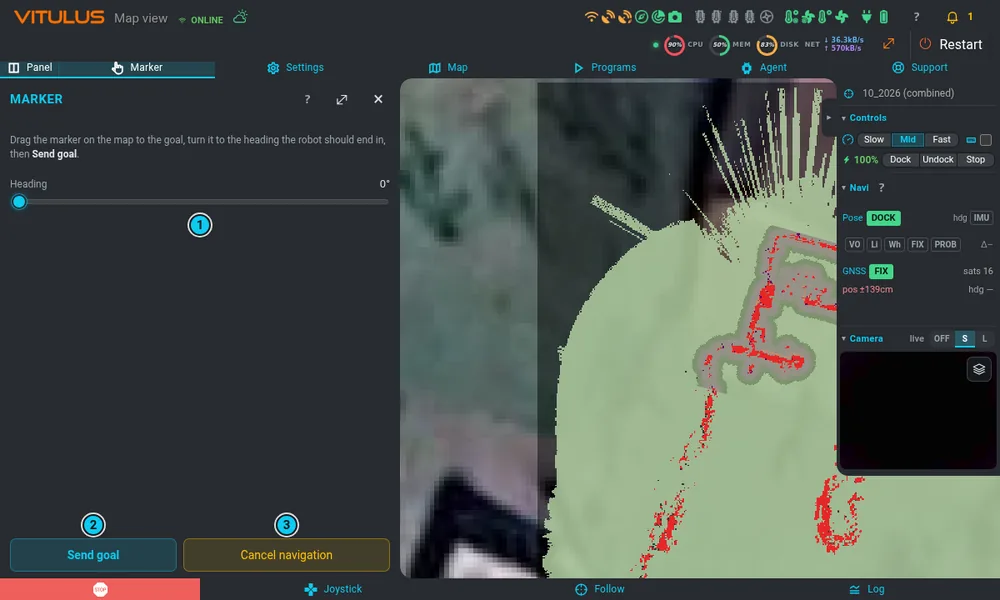
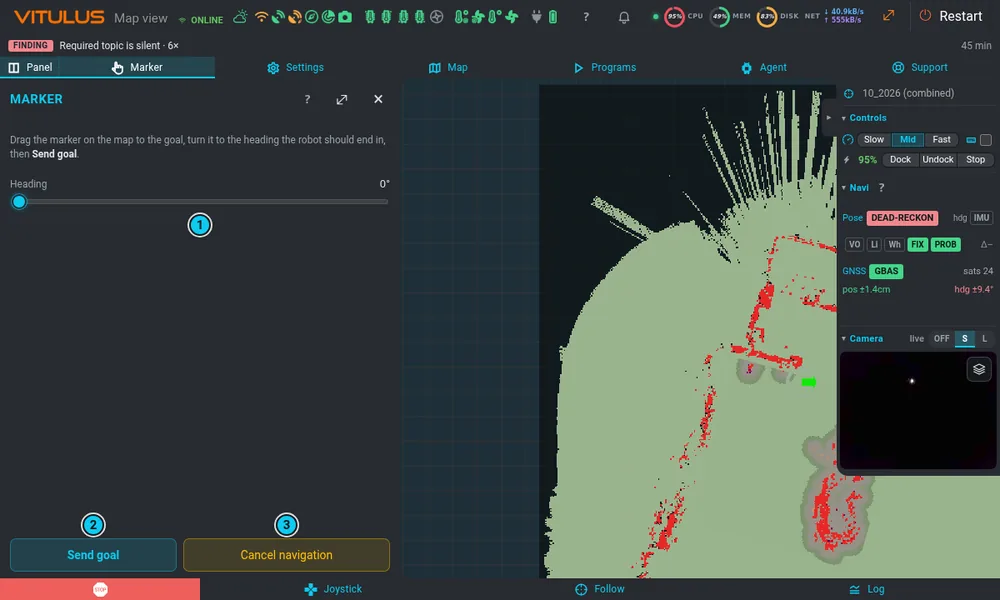
Nápověda: snímky bez skutečných zpráv – help_shots.py --demo (vymyšlený chat agenta a hlášení Support podstrčené jen v prohlížeči), letecký snímek vypnutý na všech snímcích; nafoceno znovu agent, support, phone, phone-sheet, help, marker

diff --git a/tools/help_shots.py b/tools/help_shots.py
@@ -8,6 +8,7 @@ them again from a running UI, so after a UI change it is one command:
     # a dev instance of THIS worktree, never the live robot UI (see README):
     nice -n 19 tools/help_shots.py --url http://127.0.0.1:7861
     nice -n 19 tools/help_shots.py --url http://127.0.0.1:7861 --only shot-dock-tab,shot-navi
+    nice -n 19 tools/help_shots.py --url http://127.0.0.1:7861 --demo   # the pictures for the help
     tools/help_shots.py --list
 
 Safety: every page is opened with ?mock (vt_mock.js: the page reads the robot
@@ -15,12 +16,21 @@ live but sends nothing) and the script stops when the page is not in mock mode.
 It only clicks menu buttons, tabs and section heads (list CLICK_OK); port 7779
 (the live UI) is refused.
 
+--demo: the panels that show conversations and reports (Agent chat, Support
+issues, Needs you, Activity) get invented, neutral content instead of the
+owner's real chat and reports. The browser answers those GET requests itself
+(Playwright route, DEMO below) — nothing is sent to any server. Shots marked
+demo=True are skipped without --demo, so the owner's messages never end up in
+the help by accident.
+
 Needs: python3-playwright + Google Chrome, Pillow with WebP. The pictures are
 the live robot's state at that moment (night = black camera) — shots whose
 content would mislead are schematic SVG instead (docs/help/img/*.svg).
 """
 import argparse
 import io
+import json
+import time
 import os
 import re
 import sys
@@ -48,8 +58,8 @@ CLICK_OK = re.compile(r'^(#btn_(marker|settings|map|programs|agent|support|log|j
 # the map view starts close on the dock; a little farther shows the garden.
 # The aerial photo layer is switched off in the pictures: it would show where
 # the owner lives (the help goes to every user of the kit).
-ZOOM_OUT = ("const v = viewer.viewer; v.camera.position.z *= 2.2; v.cameraControls.update();"
-            "const a = document.getElementById('mapv3_chk_aerial'); if (a && a.checked) a.click(); return '';")
+AERIAL_OFF = "const a = document.getElementById('mapv3_chk_aerial'); if (a && a.checked) a.click(); return '';"
+ZOOM_OUT = ("const v = viewer.viewer; v.camera.position.z *= 2.2; v.cameraControls.update();" + AERIAL_OFF)
 
 # the running card is painted by the page's own code from the mission's
 # state; the picture sets that state in the page only (nothing is sent)
@@ -174,15 +184,104 @@ SHOTS = [
          marks=[('#mapedit_tools', '1', 'ri'), ('#mapedit_tools + *, #mapedit_context', '2', 'tr'), ('#mapedit_context', '3', 'ri'),
                 ('#mapedit_edit_list, #div_map_detail details', '4', 'ri'), ('#btn_map_detail_close_footer', '5', 't'),
                 ('#map_view', '6', 'c')]),
-    dict(name='shot-agent', vp=DESK, clip='#ui_drawer_head|#ui_drawer_body', steps=panel('#btn_agent', None, [('wait', 2500)]),
+    dict(name='shot-agent', vp=DESK, demo=True, clip='#ui_drawer_head|#ui_drawer_body', steps=panel('#btn_agent', None, [('wait', 2500)]),
          marks=[('#vagent_status', '1', 'ri'), ('#vagent_stop', '2', 'b'),
                 ('#vagent_tabs', '3', 'b'), ('#vagent_panel textarea, #vagent_panel input[type=text]', '4', 't'), ('#vagent_quick', '5', 'ri')]),
-    dict(name='shot-support', vp=DESK, clip='#ui_drawer_head|#ui_drawer_body', trim=(2000, 300),
+    dict(name='shot-support', vp=DESK, demo=True, clip='#ui_drawer_head|#ui_drawer_body', trim=(2000, 300),
          steps=panel('#btn_support', None, [('wait', 2500)]), marks=[]),
     dict(name='shot-help', vp=DESK, scale=1, width=1200, md=26,
          steps=panel('#btn_map', 'tab-dock', [('click', '#btn_ui_drawer_help'), ('wait', 1500)]),
          marks=[('#btn_ui_drawer_help', '1', 'b'), ('.vth-search', '2', 'b'), ('.vth-toc', '3', 'l'), ('.vth-close', '4', 'b')]),
 ]
+
+
+# --- --demo: invented, neutral content for the panels that show the owner's
+# conversations and reports. The browser answers these GET requests itself
+# (Playwright route), the server never sees them; everything else is read live.
+def _demo_tasks(now):
+    T = []
+
+    def add(ago_s, source, author, klass, text, reply, took=4, meta=None):
+        ts = now - ago_s
+        T.append(dict(id=900 + len(T), ts=ts, source=source, author=author, text=text, klass=klass,
+                      state='done', reply=reply, reply_ts=ts + took, meta=meta))
+    add(1500, 'web', 'Owner', 'query', 'status?',
+        'Docked and charged (battery 100 %). RTK fix, accuracy 2 cm. Drive motors off, blade off.')
+    add(1380, 'web', 'Owner', 'mission', 'Test drive: undock, drive to TEST, wait 10 s, dock back',
+        'Taking it as mission #12. Plan, checked like a test scenario: 1) undock, 2) drive to TEST, '
+        '3) wait 10 s, 4) dock. I report after every phase; say "cancel" to stop it.')
+    add(1330, 'agent', 'agent', 'mission', 'mission #12 · phase 1/4',
+        'Phase 1/4 undock — done: motors on, out of the dock at UNDOCK, RTK fix.', took=1)
+    add(1270, 'agent', 'agent', 'mission', 'mission #12 · phase 2/4',
+        'Phase 2/4 drive to TEST — done in 48 s, 11.6 m, goal reached within 6 cm.', took=1)
+    add(1255, 'agent', 'agent', 'mission', 'mission #12 · phase 3/4',
+        'Phase 3/4 wait 10 s at TEST — done.', took=1)
+    add(1190, 'agent', 'agent', 'mission', 'mission #12 · phase 4/4',
+        'Phase 4/4 dock — done: docked, the charger supplies power. Mission #12 finished in 3 min 10 s.', took=1)
+    add(420, 'web', 'Owner', 'query', 'Is the path to the back lawn clear?',
+        'Yes. The lidar sees no new obstacle on the planned path; the nearest one is the bench, 1.4 m off the path.')
+    return T
+
+
+def _demo_issue(n, title, status, current, labels, who, ago_h, closed=False):
+    order = ['reported', 'assessed', 'fixed', 'released', 'tested', 'verified', 'closed']
+    stamp = time.strftime('%Y-%m-%dT%H:%M:%SZ', time.gmtime(time.time() - ago_h * 3600))
+    steps = []
+    for sid in order:
+        st = 'done' if order.index(sid) < order.index(current) else ('current' if sid == current else 'todo')
+        steps.append(dict(id=sid, state=st, when=stamp if st == 'done' else None, detail=None))
+    return dict(number=n, title=title, state='CLOSED' if closed else 'OPEN', labels=labels, kind='report',
+                status_text=status, last_change=stamp, created_at=stamp, closed_at=stamp if closed else None,
+                url='', comments=2, waiting='tester' if who else None, motion=False,
+                pipeline=dict(mode='pipeline', steps=steps, current=None if closed else current, closed=closed,
+                              tally=None, redo=False, round=1, partial=False, rounds=[]),
+                turn='verify' if who else 'none', agent_active=False, mine=False, who='verify' if who else 'none',
+                who_label=who, mine_since=None)
+
+
+def _demo_issues():
+    iss = [
+        _demo_issue(12, '[report] Camera picture stays on "waiting for signal" on a tablet',
+                    'fix released, test running', 'released', ['area:ui', 'sev:minor', 'waiting:tester'], 'Tester', 1.2),
+        _demo_issue(11, '[report] Undock waits too long for RTK under the roof edge',
+                    'fix ready, waiting for release', 'fixed', ['area:dock', 'sev:minor'], None, 5),
+        _demo_issue(9, '[report] Program list is empty after switching the map',
+                    'verified', 'closed', ['area:programs', 'sev:minor'], None, 30, closed=True),
+    ]
+    return dict(meta=dict(repo='', lang='en', kit_version='1.0.0', stale=False, error=None, approvals=True),
+                role='owner', issues=iss,
+                turn=dict(who={}, labels={}, counts=dict(you=0, agent=0, field=0, verify=1, them=0, none=1, open=2),
+                          you=[], names={}),
+                contexts={})
+
+
+DEMO_EMPTY_ATTENTION = dict(count=0, oldest_since=None, high=0, items=[], you_issues=[], working=0, mine=0, acks=[], ctx={})
+
+
+def demo_answer(path, query):
+    """The invented answer for a GET path, or None (read live)."""
+    if path == '/agent/api/tasks':
+        return dict(tasks=[] if 'since_id' in query else _demo_tasks(time.time()),
+                    cleared_after=0, has_more=False, oldest_id=900, live_floor=900)
+    if path == '/field/api/issues':
+        return _demo_issues()
+    if path == '/field/api/attention':
+        return DEMO_EMPTY_ATTENTION
+    if path == '/agent/api/v2/approvals':
+        return dict(approvals=[], ts=time.time())
+    return None
+
+
+def install_demo(ctx):
+    from urllib.parse import urlsplit
+
+    def handle(route):
+        u = urlsplit(route.request.url)
+        data = demo_answer(u.path, u.query) if route.request.method == 'GET' else None
+        if data is None:
+            return route.continue_()
+        route.fulfill(status=200, content_type='application/json', body=json.dumps(data))
+    ctx.route(re.compile(r'^https?://[^/]+/(agent|field)/'), handle)
 
 
 def mark_js():
@@ -249,7 +348,7 @@ def box_of(pg, clip, pad):
     return {'x': x0, 'y': y0, 'width': x1 - x0, 'height': y1 - y0}
 
 
-def run(url, only, keep_png):
+def run(url, only, keep_png, demo=False):
     base = url.rstrip('/')
     if re.search(r':7779\b', base):
         sys.exit('refused: :7779 is the live UI — start a dev instance (docs/help/README.md)')
@@ -261,10 +360,17 @@ def run(url, only, keep_png):
         for s in SHOTS:
             if only and s['name'] not in only:
                 continue
+            if s.get('demo') and not demo:
+                print('  %s: skipped — shows chat / reports, run with --demo' % s['name'])
+                continue
             w, h = s['vp']
             phone = w < 600
             ctx = b.new_context(viewport={'width': w, 'height': h}, device_scale_factor=s.get('scale', 2),
-                                is_mobile=phone, has_touch=phone)
+                                is_mobile=phone, has_touch=phone,
+                                # the page's service worker would fetch past the demo route
+                                service_workers='block' if demo else 'allow')
+            if demo:
+                install_demo(ctx)
             pg = ctx.new_page()
             pg.add_init_script('window.alert=()=>{};window.confirm=()=>false;window.prompt=()=>null;'
                                'try{localStorage.clear()}catch(e){}')
@@ -272,6 +378,8 @@ def run(url, only, keep_png):
             pg.wait_for_timeout(s.get('boot', 8000))
             if not pg.evaluate("document.documentElement.classList.contains('vt-mock')"):
                 sys.exit('refused: the page is not in mock mode')
+            pg.evaluate('()=>{' + AERIAL_OFF + '}')   # every picture: no aerial photo (where the owner lives)
+            pg.wait_for_timeout(600)
             for st in s.get('steps', []):
                 k = st[0]
                 if k == 'click':
@@ -329,6 +437,8 @@ if __name__ == '__main__':
     ap.add_argument('--url', help='a dev instance, e.g. http://127.0.0.1:7861 (never :7779)')
     ap.add_argument('--only', default='', help='comma separated shot names')
     ap.add_argument('--list', action='store_true', help='list the shots and exit')
+    ap.add_argument('--demo', action='store_true',
+                    help='invented chat / reports instead of the real ones (use for the help pictures)')
     ap.add_argument('--png', default='', help='also save a PNG copy into this directory (for a look)')
     a = ap.parse_args()
     if a.list:
@@ -337,4 +447,4 @@ if __name__ == '__main__':
         sys.exit(0)
     if not a.url:
         ap.error('--url is required')
-    run(a.url, set(x for x in a.only.split(',') if x), a.png)
+    run(a.url, set(x for x in a.only.split(',') if x), a.png, a.demo)

diff --git a/docs/help/README.md b/docs/help/README.md
@@ -94,9 +94,9 @@ The help should *show* what it talks about. Two kinds:
   sed 's/^port = 7779/port = 7861/' nodes/webnode > nodes/.webnode_dev.py
   ROS_MASTER_URI=http://10.254.254.254:11311 ROS_IP=10.254.254.254 \
     VITULUS_UI_SETTINGS=/tmp/help_shots_ui.json nice -n 19 python3 nodes/.webnode_dev.py __name:=webnode_shots &
-  # 2. all pictures, or only some
-  nice -n 19 tools/help_shots.py --url http://127.0.0.1:7861
-  nice -n 19 tools/help_shots.py --url http://127.0.0.1:7861 --only shot-dock-tab,shot-navi --png /tmp/look
+  # 2. all pictures, or only some (--demo: invented chat / reports, see below)
+  nice -n 19 tools/help_shots.py --url http://127.0.0.1:7861 --demo
+  nice -n 19 tools/help_shots.py --url http://127.0.0.1:7861 --demo --only shot-dock-tab,shot-navi --png /tmp/look
   tools/help_shots.py --list
   # 3. look at them (--png keeps PNG copies), stop the dev webnode, rm nodes/.webnode_dev.py
   ```
@@ -107,7 +107,16 @@ The help should *show* what it talks about. Two kinds:
   tabs and section heads, refuses `:7779` and stops when the page is not in mock mode. The
   pictures show the robot's state at that moment: avoid things that would mislead or expose the
   owner (the aerial photo and the rain radar show where the garden is — the script switches the
-  aerial layer off; at night the camera is black, hence the schematic `camera-overlays.svg`).
+  aerial layer off in every picture; at night the camera is black, hence the schematic
+  `camera-overlays.svg`).
+- **No real conversations in the help:** always shoot with `--demo`. The Agent chat, the Support
+  issues and Needs you then show invented, neutral content (an English test drive with its
+  phases, two made-up reports) — the browser answers those GET requests itself (`DEMO` /
+  `install_demo` in the script, a Playwright route; the page's service worker is blocked so it
+  cannot fetch past it), nothing goes to a server. Shots marked `demo=True` (`shot-agent`,
+  `shot-support`) are skipped without `--demo`. A new shot of a panel with messages, reports,
+  names, e-mails or addresses gets `demo=True` and its data in `demo_answer()`. Look at every
+  picture before committing.
 - Size: WebP (quality ~82) or SVG, at most 400 kB per file (the test checks); 2× pixels for small
   crops so they stay sharp in the lightbox.
 
